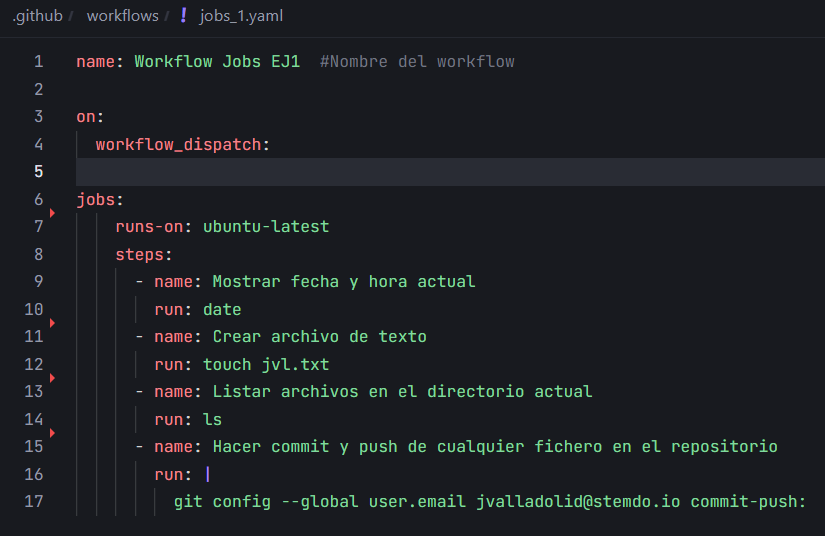
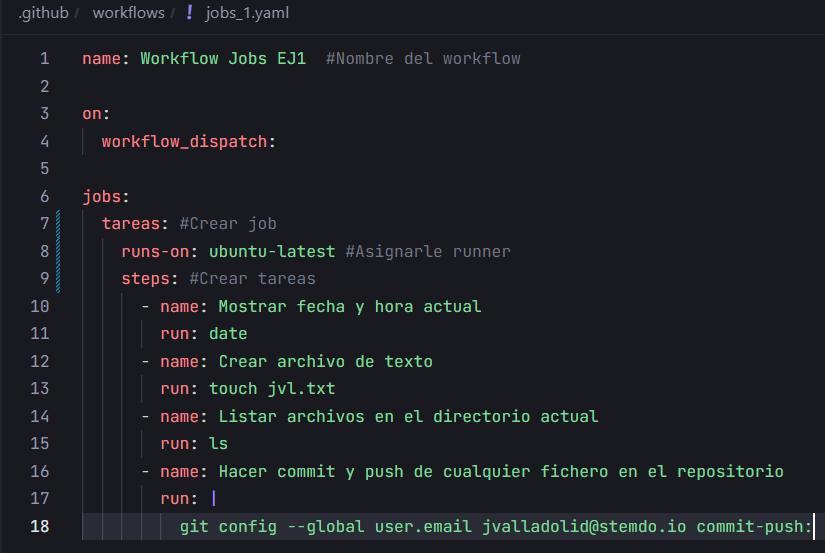
jobs ej1 completado

diff --git a/soluciones/jobs/ejercicio1.md b/soluciones/jobs/ejercicio1.md
@@ -2,7 +2,37 @@
 
 ## Configura un workflow (workflow_dispatch) con un solo job que haga las siguientes tareas:
 
+Workflow:
+
+![](../../datos/jobs_ej1_foto1.png)
+
 - Mostrar la fecha y hora actual.
+
+```yaml
+- name: Mostrar fecha y hora actual
+  run: date
+```
+
 - Crear un archivo de texto.
+
+```yaml
+- name: Crear archivo de texto
+  run: touch jvl.txt
+```
 - Listar los archivos en el directorio actual.
+
+```yaml
+- name: Listar archivos en el directorio actual
+  run: ls
+```
 - Hacer un commit y push de cualquier fichero en el repositorio.
+
+```yaml
+- name: Hacer commit y push de cualquier fichero en el repositorio
+  run: |
+    git config --global user.email jvalladolid@stemdo.io commit-push:
+```
+
+Resultado:
+
+![](../../datos/jobs_ej1_foto2.png)
